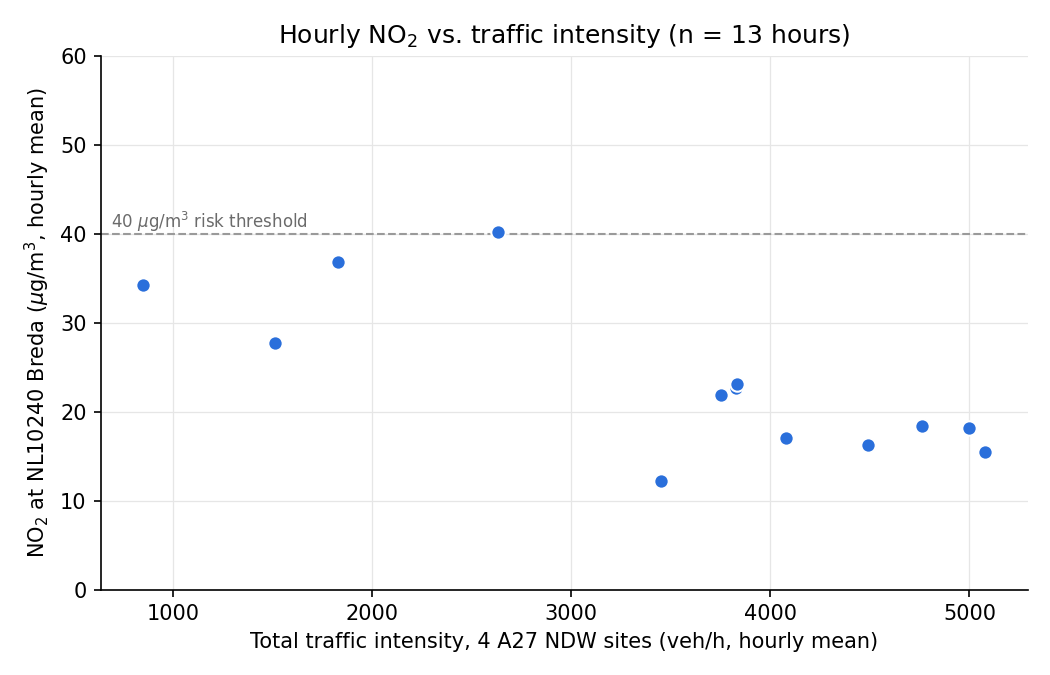
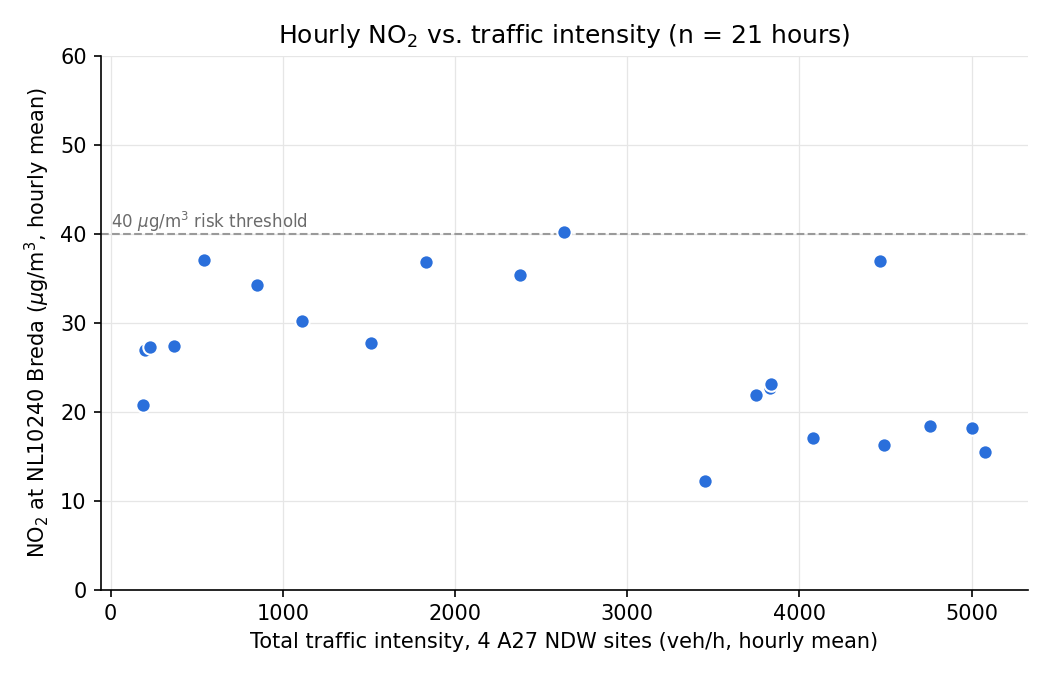
model: retrain on 21 hourly rows and update the document numbers

diff --git a/docs/index.md b/docs/index.md
@@ -15,7 +15,7 @@ AirBreda answers one question for the Municipality of Breda: how does A27 traffi
 
 It runs on AWS in eu-north-1 (Stockholm): one EC2 t3.micro with two cron-started ingestion containers and an always-on dashboard, RDS PostgreSQL and an S3 bucket. Dashboard: [http://13.61.230.95:8000](http://13.61.230.95:8000). Code: [https://github.com/MohammadaliJaberi244437/airbreda](https://github.com/MohammadaliJaberi244437/airbreda).
 
-I did the five-day course in one day (1 October 2026). NDW capture started on my laptop at 10:33 local time, before any cloud resource existed; cloud ingestion has run since 11:23. With <!--N_ROWS-->13<!--/N_ROWS--> hourly rows the model is a placeholder that proves the serving path; the architecture is the deliverable.
+I did the five-day course in one day (1 October 2026). NDW capture started on my laptop at 10:33 local time, before any cloud resource existed; cloud ingestion has run since 11:23. With <!--N_ROWS-->21<!--/N_ROWS--> hourly rows the model is a placeholder that proves the serving path; the architecture is the deliverable.
 
 ## 1. Architecture diagram {#architecture}
 
@@ -157,21 +157,21 @@ flowchart LR
 
 ### ADR-006: ML Serving Architecture {#adr-006}
 
-**Status:** Accepted for the prototype; numbers from the final training at <!--TRAINED_AT-->00:27 on 2 October 2026 (Amsterdam time)<!--/TRAINED_AT-->.
+**Status:** Accepted for the prototype; numbers from the final training at <!--TRAINED_AT-->09:06 on 2 October 2026 (Amsterdam time)<!--/TRAINED_AT-->.
 
-**Context.** Target: hourly NO2 at NL10240. Features: total A27 intensity (hourly mean of the 10-minute samples, summed over four sites) and local hour of day. Training data: <!--N_ROWS-->13<!--/N_ROWS--> hourly rows (<!--TRAIN_RANGE-->hours ending 1 October 2026 10:00 UTC to 1 October 2026 22:00 UTC<!--/TRAIN_RANGE-->). Flagged hours are excluded, as are hours in which any site has fewer than 3 samples spanning 30 minutes (the coverage rule the dashboard applies too) and hours without published NO2.
+**Context.** Target: hourly NO2 at NL10240. Features: total A27 intensity (hourly mean of the 10-minute samples, summed over four sites) and local hour of day. Training data: <!--N_ROWS-->21<!--/N_ROWS--> hourly rows (<!--TRAIN_RANGE-->hours ending 1 October 2026 10:00 UTC to 2 October 2026 06:00 UTC<!--/TRAIN_RANGE-->). Flagged hours are excluded, as are hours in which any site has fewer than 3 samples spanning 30 minutes (the coverage rule the dashboard applies too) and hours without published NO2.
 
 ![Training data: NO2 at NL10240 against total A27 intensity](img/no2_vs_intensity.png)
 
 **Decision.**
 
-- **Linear regression** on `[total_intensity_veh_per_hr, hour_of_day]`: three parameters, readable coefficients, little room to memorise a handful of rows. Result: in-sample R2 <!--R2-->0.61<!--/R2-->, in-sample MAE <!--MAE-->3.72<!--/MAE--> ug/m3, intensity coefficient <!--COEF_INTENSITY-->-0.0055<!--/COEF_INTENSITY--> ug/m3 per veh/h, hour coefficient <!--COEF_HOUR-->-0.247<!--/COEF_HOUR-->, intercept <!--INTERCEPT-->46.68<!--/INTERCEPT-->. Leave-one-out MAE: <!--MAE_LOO-->4.55 ug/m3<!--/MAE_LOO-->. <!--EVAL_NOTE-->Each hour is predicted by a model fitted on the other hours; neighbouring hours are correlated, so even this number is optimistic.<!--/EVAL_NOTE--> Sign check from the training run: <!--SIGN_NOTE-->UNEXPECTED sign: more traffic lowers predicted NO2 (-5.50 ug/m3 per +1000 veh/h). Likely too little data or confounding (wind, boundary layer height, time of day), not a real effect.<!--/SIGN_NOTE--> <!--LOGISTIC_NOTE-->Stretch goal: a logistic classifier on 'the hour exceeded 40 ug/m3' was also fitted (1 of 13 hours exceed). With so few exceedance hours it cannot place a reliable boundary, so the sigmoid on the regression stays the served score (comparison in `model_meta.json`).<!--/LOGISTIC_NOTE--> Thousands of hourly rows with weather features would justify gradient-boosted trees.
+- **Linear regression** on `[total_intensity_veh_per_hr, hour_of_day]`: three parameters, readable coefficients, little room to memorise a handful of rows. Result: in-sample R2 <!--R2-->0.25<!--/R2-->, in-sample MAE <!--MAE-->5.53<!--/MAE--> ug/m3, intensity coefficient <!--COEF_INTENSITY-->-0.0025<!--/COEF_INTENSITY--> ug/m3 per veh/h, hour coefficient <!--COEF_HOUR-->0.088<!--/COEF_HOUR-->, intercept <!--INTERCEPT-->31.36<!--/INTERCEPT-->. Leave-one-out MAE: <!--MAE_LOO-->6.50 ug/m3<!--/MAE_LOO-->. <!--EVAL_NOTE-->Each hour is predicted by a model fitted on the other hours; neighbouring hours are correlated, so even this number is optimistic.<!--/EVAL_NOTE--> Sign check from the training run: <!--SIGN_NOTE-->UNEXPECTED sign: more traffic lowers predicted NO2 (-2.46 ug/m3 per +1000 veh/h). Likely too little data or confounding (wind, boundary layer height, time of day), not a real effect.<!--/SIGN_NOTE--> <!--LOGISTIC_NOTE-->Stretch goal: a logistic classifier on 'the hour exceeded 40 ug/m3' was also fitted (1 of 21 hours exceed). With so few exceedance hours it cannot place a reliable boundary, so the sigmoid on the regression stays the served score (comparison in `model_meta.json`).<!--/LOGISTIC_NOTE--> Thousands of hourly rows with weather features would justify gradient-boosted trees.
 - **no2_exceedance_risk** = 1 / (1 + exp(-0.2 x (predicted NO2 - 40))). 40 ug/m3 is the EU annual limit value (Directive 2008/50/EC) and the WHO 2005 annual guideline, applied to hourly values as a deliberate, stated mismatch: an hour above 40 is no legal exceedance but pushes the annual mean the wrong way, while the hourly limit of 200 is never approached here. A sigmoid rather than a yes/no flag, because the prediction is uncertain: 0.12 at 30, 0.5 at 40, 0.88 at 50.
 - **Training-serving skew** here would be: local hour for training but UTC for serving (predictions one or two hours off); hourly means for training but one 1-minute sample for serving; or an 08:30 traffic sample joined to the NO2 row labelled 08:00, although Luchtmeetnet labels an hour by its end (09:00). One module, `features.py`, used by training and dashboard alike, prevents all three. Baking the model into the image removes another cause: code and model ship as one versioned artifact, so serving cannot load a model built with other feature code or fail on a runtime download.
 - **One station, four sites:** the sites form one interchange with one air-quality context, and the model uses their sum. A second interchange needs a second station when its traffic cannot plausibly reach NL10240 (kilometres away, or usually downwind); otherwise the model learns noise.
 - **If predict() fails**, `/site/{id}` still returns 200 with the real NO2 and intensity, a null prediction and risk, and a `prediction_error`, logged as ERROR: the measurements are the trustworthy part and should not vanish because the least trustworthy part failed. Only an unreachable RDS or S3 gives 503, because then nothing real is left.
 
-**Consequences.** All four sites show the same prediction and risk next to their own intensity, and the risk is a score, not a calibrated probability. With <!--N_ROWS-->13<!--/N_ROWS--> rows the model is a placeholder, not a forecast. Retraining means rebuilding and restarting the image: model and feature code cannot drift apart, but no model changes without a deploy. A model failure costs the prediction, never the page. A second interchange needs its own station mapping and model.
+**Consequences.** All four sites show the same prediction and risk next to their own intensity, and the risk is a score, not a calibrated probability. With <!--N_ROWS-->21<!--/N_ROWS--> rows the model is a placeholder, not a forecast. Retraining means rebuilding and restarting the image: model and feature code cannot drift apart, but no model changes without a deploy. A model failure costs the prediction, never the page. A second interchange needs its own station mapping and model.
 
 ## 3. Trade-off justifications {#trade-offs}
 
@@ -219,7 +219,7 @@ What we would lose by switching: not the data and not the software. AirBreda is 
 
 ## 6. Reflection {#reflection}
 
-My least confident decision is the core modelling assumption: that A27 traffic at hectometer 63 explains NO2 at Breda-Tilburgseweg, so one station serves all four sites and traffic plus hour are the only features. I chose it because it was the pairing I could build and test in a day, not because data showed it. With <!--N_ROWS-->13<!--/N_ROWS--> rows the model cannot separate traffic from time of day, weather or the regional background: on a calm morning NO2 rises with or without the motorway. Three things would make me confident: months of data with KNMI wind direction, where the traffic effect should be clearly larger when the wind blows from the A27 to the station; a background station away from the motorway as a control; and a held-out test in which the model beats a naive baseline such as the same hour last week.
+My least confident decision is the core modelling assumption: that A27 traffic at hectometer 63 explains NO2 at Breda-Tilburgseweg, so one station serves all four sites and traffic plus hour are the only features. I chose it because it was the pairing I could build and test in a day, not because data showed it. With <!--N_ROWS-->21<!--/N_ROWS--> rows the model cannot separate traffic from time of day, weather or the regional background: on a calm morning NO2 rises with or without the motorway. Three things would make me confident: months of data with KNMI wind direction, where the traffic effect should be clearly larger when the wind blows from the A27 to the station; a background station away from the motorway as a control; and a held-out test in which the model beats a naive baseline such as the same hour last week.
 
 With a full year of data I would change three things. Features: wind speed and direction, temperature, day of week, holidays, congestion (speed), and hour of day as a cycle (sine and cosine), since NO2 has morning and evening peaks that a linear hour term cannot express. My first evening already showed it: NO2 rose to 40 ug/m3 between 20:00 and 21:00 while traffic had fallen to about half its afternoon peak, so I would also add traffic lagged by one to three hours. Algorithm: gradient-boosted trees, which learn interactions such as "traffic matters when the wind is from the east", with linear regression as the baseline to beat. Evaluation: a time-based split (train on nine months and test on three, or a rolling origin), never a random one, because neighbouring hours are near copies and would leak. I would report MAE against the naive baseline and, for the risk score, its calibration and how many real hours above 40 it catches.
 
